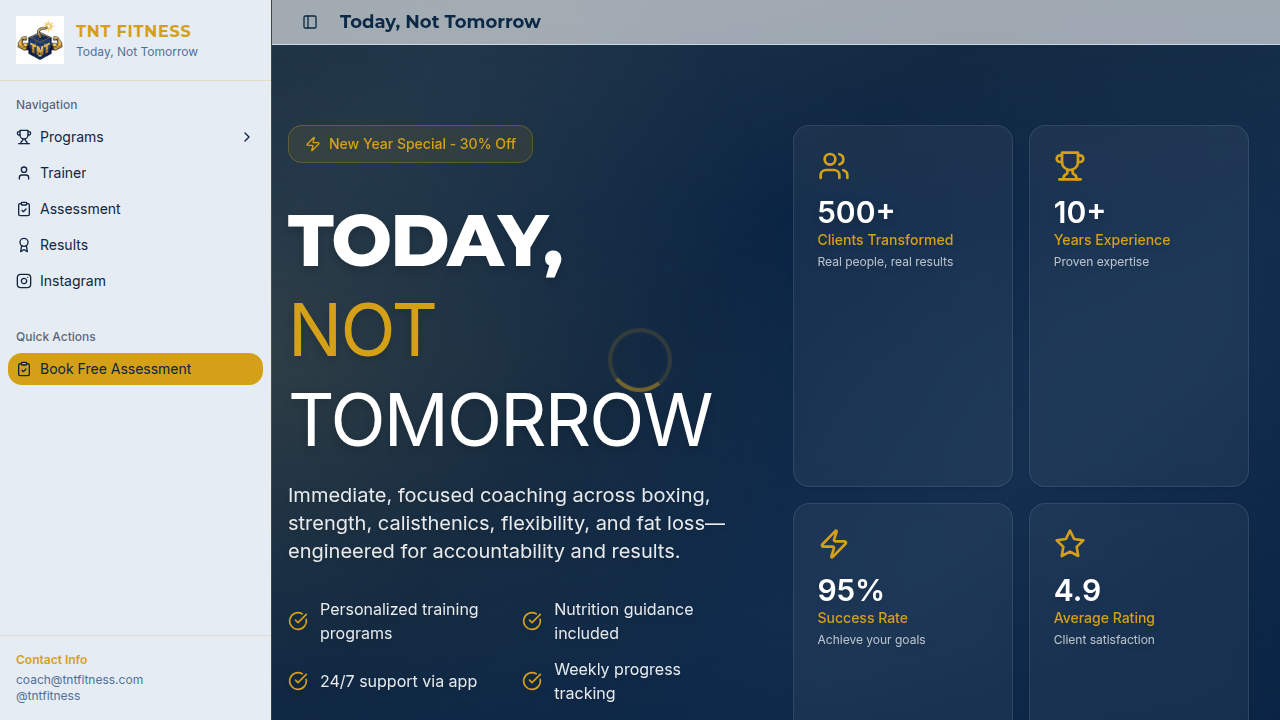
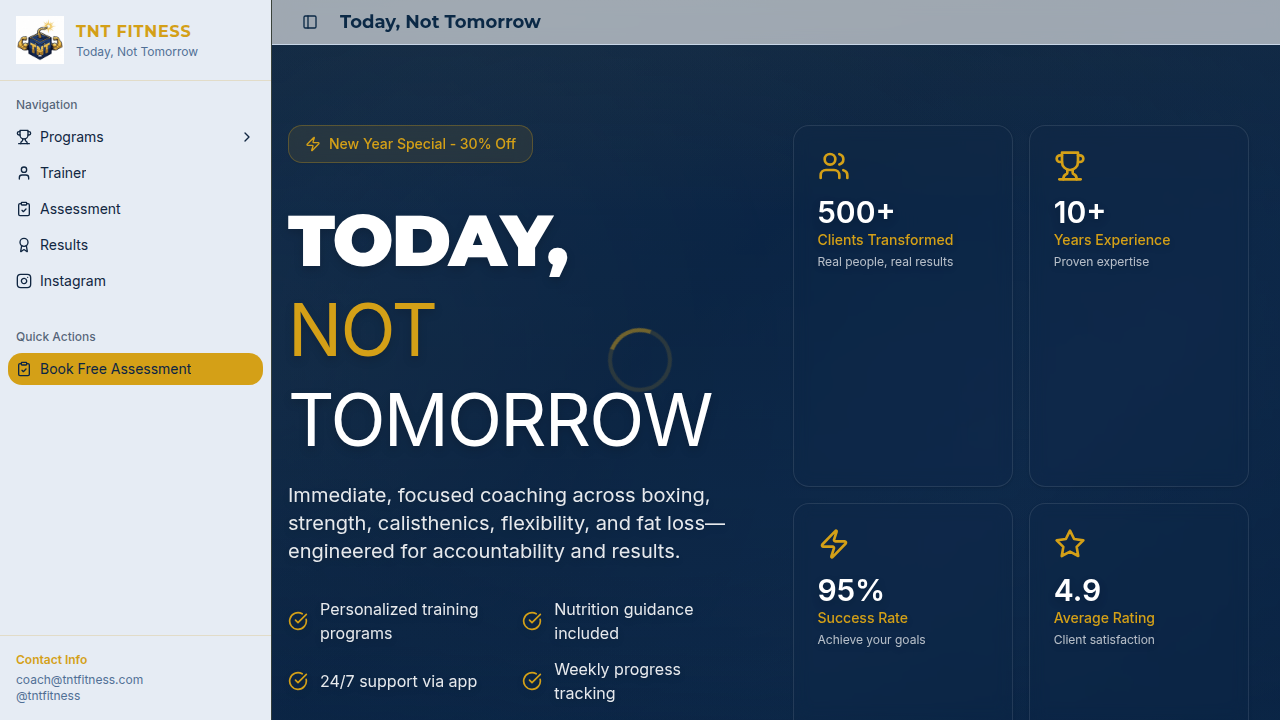
Update website appearance to align with branding guidelines
Adjust header styles and card backgrounds in App.tsx and HeroBlock.tsx to match brand colors and improve visual consistency.

Replit-Commit-Author: Agent
Replit-Commit-Session-Id: 5cdd7a6d-f270-4319-bf1b-70a4dfb8b3cd
Replit-Commit-Checkpoint-Type: intermediate_checkpoint
Replit-Commit-Screenshot-Url: https://storage.googleapis.com/screenshot-production-us-central1/c6593ae0-5a9c-43e2-9c3a-a29513f5c8fe/5cdd7a6d-f270-4319-bf1b-70a4dfb8b3cd/XGqcAF1

diff --git a/client/src/App.tsx b/client/src/App.tsx
@@ -54,7 +54,7 @@ function App() {
             <AppSidebar />
             <SidebarInset>
               {/* Mobile/Tablet header with sidebar trigger */}
-              <header className="sticky top-0 z-40 flex items-center justify-between p-2 px-4 border-b bg-background/95 backdrop-blur supports-[backdrop-filter]:bg-background/60 md:hidden">
+              <header className="sticky top-0 z-40 flex items-center justify-between p-2 px-4 border-b border-[#D4A017]/30 bg-[#0B2545] md:hidden">
                 <SidebarTrigger data-testid="button-sidebar-toggle" />
                 <div className="flex items-center gap-2">
                   <span className="font-display font-bold text-[#D4A017]">TNT FITNESS</span>
@@ -62,10 +62,10 @@ function App() {
               </header>
               
               {/* Desktop header */}
-              <header className="sticky top-0 z-40 hidden md:flex items-center justify-between p-2 px-6 border-b bg-background/95 backdrop-blur supports-[backdrop-filter]:bg-background/60">
+              <header className="sticky top-0 z-40 hidden md:flex items-center justify-between p-2 px-6 border-b border-[#D4A017]/30 bg-[#0B2545]">
                 <div className="flex items-center gap-4">
                   <SidebarTrigger data-testid="button-sidebar-toggle-desktop" />
-                  <h1 className="font-display text-lg font-semibold">Today, Not Tomorrow</h1>
+                  <h1 className="font-display text-lg font-semibold text-white">Today, Not Tomorrow</h1>
                 </div>
               </header>
               

diff --git a/client/src/components/blocks/HeroBlock.tsx b/client/src/components/blocks/HeroBlock.tsx
@@ -125,7 +125,7 @@ export default function HeroBlock() {
               {stats.map((stat) => (
                 <Card 
                   key={stat.label} 
-                  className="border-white/10 bg-[#0B2545]/5 backdrop-blur-sm transition-all hover:bg-[#0B2545]/10"
+                  className="border-white/10 bg-[#0B2545]/40 backdrop-blur-sm transition-all hover:bg-[#0B2545]/50"
                 >
                   <div className="p-6 space-y-3">
                     <stat.icon className="h-8 w-8 text-[#D4A017]" />
